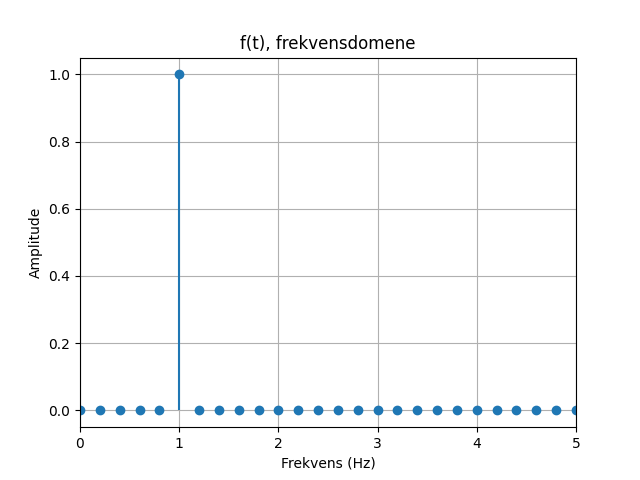
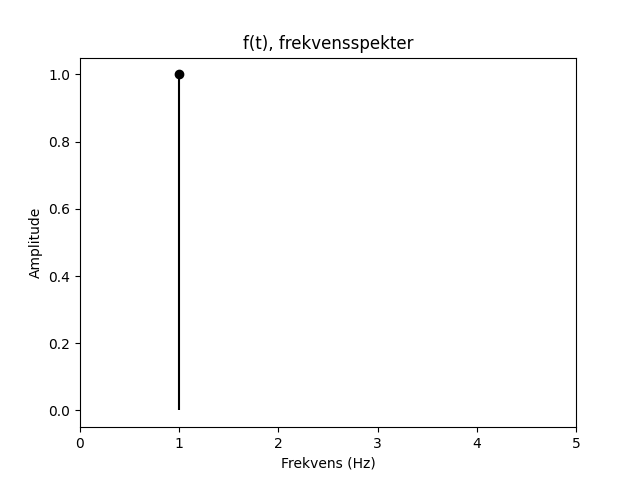
aesthetics part 2

diff --git a/scripts/part_2.py b/scripts/part_2.py
@@ -33,12 +33,10 @@ sig_1a2 = sig_1 + sig_2
 
 # Signal 1:
 
-plt.plot(t, sig_1, label="Signal 1")
-plt.grid()
+plt.plot(t, sig_1, "black")
 plt.title("f(t)")
 plt.xlabel("Tid (s)")
 plt.ylabel("Amplitude")
-plt.grid()
 
 plt.savefig("guide_sections/plots/p2_signal_1.png")
 plt.clf()
@@ -46,54 +44,40 @@ plt.clf()
 
 # Frequency domain, signal 1:
 
-fft_1 = 2 * abs(sp.fft.fft(sig_1)) / N
-fft_1_freqs = sp.fft.fftfreq(N, 1 / fs)
-
-plt.stem(fft_1_freqs, fft_1, label="Signal 1, Frekvensdomene", basefmt=" ")
+plt.stem(f_1, A_1, "black", basefmt=" ")
 plt.xlim(0, 5)
-plt.grid()
-plt.title("f(t), frekvensdomene")
+plt.title("f(t), frekvensspekter")
 plt.xlabel("Frekvens (Hz)")
 plt.ylabel("Amplitude")
 
 plt.savefig("guide_sections/plots/p2_signal_1_FFT.png")
 plt.clf()
 
-
 # Signal 2:
 
-plt.plot(t, sig_2, label="Signal 2")
-plt.grid()
+plt.plot(t, sig_2, "black")
 plt.title("g(t)")
 plt.xlabel("Tid (s)")
 plt.ylabel("Amplitude")
-plt.grid()
 
 plt.savefig("guide_sections/plots/p2_signal_2.png")
 plt.clf()
 
-fft_2 = 2 * abs(sp.fft.fft(sig_2)) / N
-fft_2_freqs = sp.fft.fftfreq(N, 1 / fs)
-
-plt.stem(fft_2_freqs, fft_2, label="Signal 2, Frekvensdomene", basefmt=" ")
+plt.stem(f_2, A_2, "black", basefmt=" ")
 plt.xlim(0, 5)
-plt.grid()
-plt.title("g(t), frekvensdomene")
+plt.title("g(t), frekvensspekter")
 plt.xlabel("Frekvens (Hz)")
 plt.ylabel("Amplitude")
 
 plt.savefig("guide_sections/plots/p2_signal_2_FFT.png")
 plt.clf()
 
-
 # Signal 1 + 2:
 
-plt.plot(t, sig_1a2, label="Signal 1 and 2")
-plt.grid()
+plt.plot(t, sig_1a2, "black")
 plt.title("h(t)")
 plt.xlabel("Tid (s)")
 plt.ylabel("Amplitude")
-plt.grid()
 
 plt.savefig("guide_sections/plots/p2_signal_1a2.png")
 plt.clf()
@@ -104,10 +88,9 @@ plt.clf()
 fft_1a2 = 2 * abs(sp.fft.fft(sig_1a2)) / N
 fft_1a2_freqs = sp.fft.fftfreq(N, 1 / fs)
 
-plt.stem(fft_1a2_freqs, fft_1a2, label="Signal 1 + 2, Frekvensdomene", basefmt=" ")
+plt.stem([f_1, f_2], [A_1, A_2], "black", basefmt=" ")
 plt.xlim(0, 5)
-plt.grid()
-plt.title("h(t), frekvensdomene")
+plt.title("h(t), frekvensspekter")
 plt.xlabel("Frekvens (Hz)")
 plt.ylabel("Amplitude")
 
